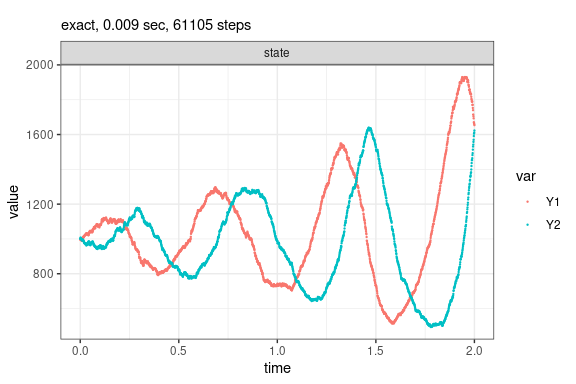
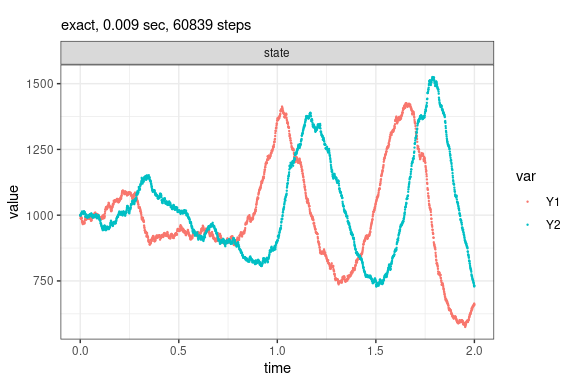
remove utf8 from doc and vignettes

diff --git a/vignettes/an_introduction.md b/vignettes/an_introduction.md
@@ -2,7 +2,7 @@ Introduction to GillespieSSA2
 ================
 
 <!-- github markdown built using 
-rmarkdown::render("vignettes/step1_introduction.Rmd", output_format = "github_document")
+rmarkdown::render("vignettes/an_introduction.Rmd", output_format = "github_document")
 -->
 
 In order to invoke `ssa()`, the stochastic model needs at least three
@@ -34,7 +34,7 @@ matrix could then be defined as follows.
 ``` r
 params <- c(c1 = 10, c2 = 0.01, c3 = 10)
 reactions <- list(
-  #        ↓ propensity function      ↓ effects                        ↓ name for reaction
+  #        propensity function        effects                          name for reaction
   reaction(~c1 * prey,                c(prey = +1),                    name = "prey_up"),
   reaction(~c2 * prey * predators,    c(prey = -1, predators = +1),    name = "predation"),
   reaction(~c3 * predators,           c(predators = -1),               name = "pred_down")
@@ -70,7 +70,7 @@ print(out$stats)
     ##   all_zero_propensity negative_propensity walltime_exceeded
     ## 1               FALSE               FALSE             FALSE
     ##   walltime_elapsed num_steps   dtime_mean     dtime_sd firings_mean
-    ## 1       0.02316614    151518 3.299954e-05 1.538995e-07            1
+    ## 1       0.02135862    151518 3.299954e-05 1.538995e-07            1
     ##   firings_sd
     ## 1          0
 

diff --git a/vignettes/converting_from_GillespieSSA.md b/vignettes/converting_from_GillespieSSA.md
@@ -17,16 +17,6 @@ The model consists of the following objects:
 
 ``` r
 library(GillespieSSA)
-```
-
-    ## 
-    ## Attaching package: 'GillespieSSA'
-
-    ## The following object is masked from 'package:GillespieSSA2':
-    ## 
-    ##     ssa
-
-``` r
 parms <- c(c1 = 10, c2 = .01, c3 = 10)
 tf <- 2                                        # Final time
 simName <- "Lotka predator-prey model"         # Name
@@ -83,8 +73,6 @@ out <- GillespieSSA2::ssa(
 autoplot.ssa(out)
 ```
 
-    ## Loading required namespace: ggplot2
-
 ![](converting_from_GillespieSSA_files/figure-gfm/gssa2-1.png)<!-- -->
 
 However, if you want to use the GillespieSSA1 objects directly, you can
@@ -113,7 +101,7 @@ print(out$stats)
     ##   negative_state all_zero_propensity negative_propensity walltime_exceeded
     ## 1          FALSE               FALSE               FALSE             FALSE
     ##   walltime_elapsed num_steps   dtime_mean     dtime_sd firings_mean
-    ## 1      0.008731626     61105 3.273063e-05 5.972723e-08            1
+    ## 1      0.008707751     60839 3.287495e-05 3.135028e-07            1
     ##   firings_sd
     ## 1          0
 
